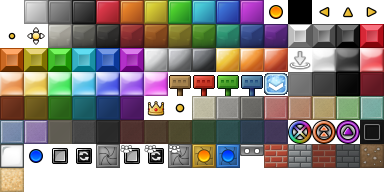
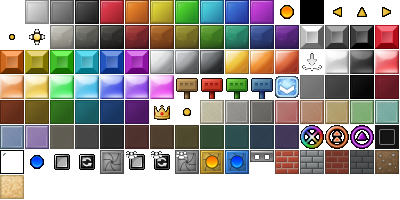
added basic ui

diff --git a/EEUbot.js b/EEUbot.js
@@ -2,6 +2,19 @@ import { mapColor } from './mapcolor.js'
 import { args } from './arguments.js'
 console.log(mapColor, args)
 
+const top = document.querySelector('#topUi')
+const bottom = document.querySelector('#bottomUi')
+
+document.querySelectorAll('.ui.bottom>div:nth-child(1)>button').forEach(element => {
+  element.onclick = () => {
+    document.querySelector('button.selected').classList.remove('selected')
+    element.classList.add('selected')
+  }
+})
+
+if (document.querySelector('button.selected') == null)
+  document.querySelector('.ui.bottom>div:nth-child(1)>button:nth-child(1)').classList.add('selected')
+
 const image = new Image()
 image.src = './AllBlocks.png'
 const ground = new Image()
@@ -20,9 +33,9 @@ const constants = {
 window.constants = constants
 
 function findBlock(id) {
-  if (blockLayers.bg.some(list => list[1] >= id && list[0] <= id)) return 0;
-  if (blockLayers.fg.some(list => list[1] >= id && list[0] <= id)) return 1;
-  if (blockLayers.ac.some(list => list[1] >= id && list[0] <= id)) return 1;
+  if (blockLayers.bg.some(list => list[1] >= id && list[0] <= id)) return [0, 0];
+  if (blockLayers.fg.some(list => list[1] >= id && list[0] <= id)) return [1, 1];
+  if (blockLayers.ac.some(list => list[1] >= id && list[0] <= id)) return [1, 2];
   return null;
 }
 
@@ -52,10 +65,10 @@ main()
 
 function moveScreen() {
   const speed = 0.4
-  const left = constants.keyboard.has(37) || constants.keyboard.has(65)
-  const right = constants.keyboard.has(39) || constants.keyboard.has(68)
-  const down = constants.keyboard.has(38) || constants.keyboard.has(87)
-  const up = constants.keyboard.has(40) || constants.keyboard.has(83)
+  const left = ck("has", 37) || ck("has", 65)
+  const right = ck("has", 39) || ck("has", 68)
+  const down = ck("has", 38) || ck("has", 87)
+  const up = ck("has", 40) || ck("has", 83)
   if (down ^ up) {
     if (down) {
       constants.y -= speed
@@ -120,7 +133,7 @@ function drawBlocks() {
 
 function drawBlock(id, x, y) {
   if (checkDraw((x - constants.x) * 24, (y - constants.y) * 24))
-    gameCtx.drawImage(image, (id & 15) * 24, Math.floor(id / 16) * 24, 24, 24, (x - constants.x) * 24, (y - constants.y) * 24, 24, 24)
+    gameCtx.drawImage(image, (id & 15) * 25, Math.floor(id / 16) * 25, 24, 24, (x - constants.x) * 24, (y - constants.y) * 24, 24, 24)
 }
 
 function drawMiniMap(id, x, y) {
@@ -133,39 +146,57 @@ function drawMiniMap(id, x, y) {
 }
 
 function placeBlocks() {
-  if (!constants.keyboard.has("mouse")) return
-  const x = Math.floor(constants.keyboard.get("mouse").X / 24 + constants.x)
-  const y = Math.floor(constants.keyboard.get("mouse").Y / 24 + constants.y)
-  if (x >= constants.width || y >= constants.height) return
-  if (x < 0 || y < 0) return
-  const key = `${x},${y}`
-  const layer = findBlock(constants.currentId)
+  if (!ck("has", "mouse")) return
+  if (ck("get", "oldMouse") === undefined)
+    ck("set", "oldMouse", ck("get", "mouse"))
+  const oldX = Math.floor(ck("get", "oldMouse").X / 24 + constants.x)
+  const oldY = Math.floor(ck("get", "oldMouse").Y / 24 + constants.y)
+  const newX = Math.floor(ck("get", "mouse").X / 24 + constants.x)
+  const newY = Math.floor(ck("get", "mouse").Y / 24 + constants.y)
+  if (newX >= constants.width || newY >= constants.height) return
+  if (newX < 0 || newY < 0) return
+  const distance2 = ((ck("get", "oldMouse").X - ck("get", "mouse").X) ** 2 +
+    (ck("get", "oldMouse").Y - ck("get", "mouse").Y) ** 2) ** (1 / 2)
+  const dist = "XY".split("").map(letter => "oldMouse,mouse".split(",").map(pos => ck("get", pos)[letter])
+    .reduce((a, b) => (a - b) ** 2)).reduce((a, b) => (a + b) ** (1 / 2))
+  console.log(dist / 24)
+  const distance = ((oldX - newX) ** 2 + (oldY - newY) ** 2) ** (1 / 2)
+  const angle = Math.atan2(oldY - newY, oldX - newX)
+  console.log(distance, distance2 / 24, angle / Math.PI * 180)
+  const key = `${newX},${newY}`
+  const layer = findBlock(constants.currentId)[0]
   constants.blocks[layer].set(key, constants.currentId)
-  if (constants.keyboard.has(16)) {
+  if (ck("has", 16)) {
     if (constants.blocks[1].has(key)) constants.blocks[1].delete(key)
     else if (constants.blocks[0].has(key)) constants.blocks[0].delete(key)
   }
 }
 
+function ck(mode, key, value = "") {
+  return constants.keyboard[mode](key, value)
+}
+
 function mouseMove(e) {
   e.preventDefault();
   if (!e.composedPath().includes(gameCanvas)) return
-  constants.keyboard.set("mouse", { X: e.clientX, Y: e.clientY });
+  ck("set", "oldMouse", ck("get", "mouse"))
+  ck("set", "mouse", { X: e.clientX, Y: e.clientY });
 }
 
 window.addEventListener("mousedown", mouseMove)
 window.addEventListener("mousemove", e => {
-  if (!constants.keyboard.has("mouse")) return
+  if (!ck("has", "mouse")) return
   mouseMove(e)
 })
 window.addEventListener("keydown", e => {
-  constants.keyboard.set(e.keyCode, true)
+  if (e.keyCode == 66) bottom.classList.toggle("min")
+  ck("set", e.keyCode, true)
 })
 
 window.addEventListener("keyup", e => {
-  constants.keyboard.delete(e.keyCode)
+  ck("delete", e.keyCode)
 })
 
 window.addEventListener("mouseup", e => {
-  constants.keyboard.delete("mouse");
+  ck("delete", "mouse")
 })

diff --git a/bot.html b/bot.html
@@ -29,16 +29,74 @@
       position: absolute;
       width: calc(var(--width) * 2px);
       height: calc(var(--height) * 2px);
-      top: 1vh;
+      top: calc(1vh + 50px);
       left: 1vw;
     }
+
+    .ui {
+      position: absolute;
+      width: 100vw;
+      background-color: var(--minimap);
+    }
+
+    .ui.top {
+      top: 0px;
+      height: 50px;
+      border-bottom: solid black 1px;
+    }
+
+    .ui.bottom {
+      display: grid;
+      grid-template-columns: 1fr 15fr;
+      height: 200px;
+      bottom: 0px;
+      border-top: solid black 1px;
+      transition-timing-function: cubic-bezier(0.445, 0.05, 0.55, 0.95);
+      transition-duration: 1s;
+      overflow: hidden;
+    }
+
+    .ui.bottom>div {
+      display: grid;
+      grid-template-rows: 1fr 1fr 1fr;
+      overflow: hidden;
+    }
+
+    .ui.bottom>div:nth-child(1)>* {
+      background-color: rgb(119, 119, 119);
+      border: none;
+      color: rgb(85, 85, 85);
+    }
+
+    .ui.bottom>div:nth-child(1)>.selected {
+      background-color: var(--minimap);
+      color: rgb(128, 128, 128);
+    }
+
+    .ui.bottom>div:nth-child(1)>*:hover {
+      color: rgb(128, 128, 128);
+    }
+
+    .ui.min {
+      height: 0px;
+    }
   </style>
+  <script src="https://kit.fontawesome.com/176978a92b.js" crossorigin="anonymous"></script>
   <script src="EEUbot.js" defer type="module"></script>
 </head>
 
 <body oncontextmenu="return!1">
   <canvas id="gameDraw"></canvas>
   <canvas id="minimap"></canvas>
+  <div id="topUi" class="ui top"></div>
+  <div id="bottomUi" class="ui bottom">
+    <div>
+      <button><em class="fas fa-cube fa-3x"></em></button>
+      <button><em class="fas fa-bolt fa-3x"></em></button>
+      <button><em class="fas fa-image fa-3x"></em></button>
+    </div>
+    <div></div>
+  </div>
 </body>
 
 </html>
